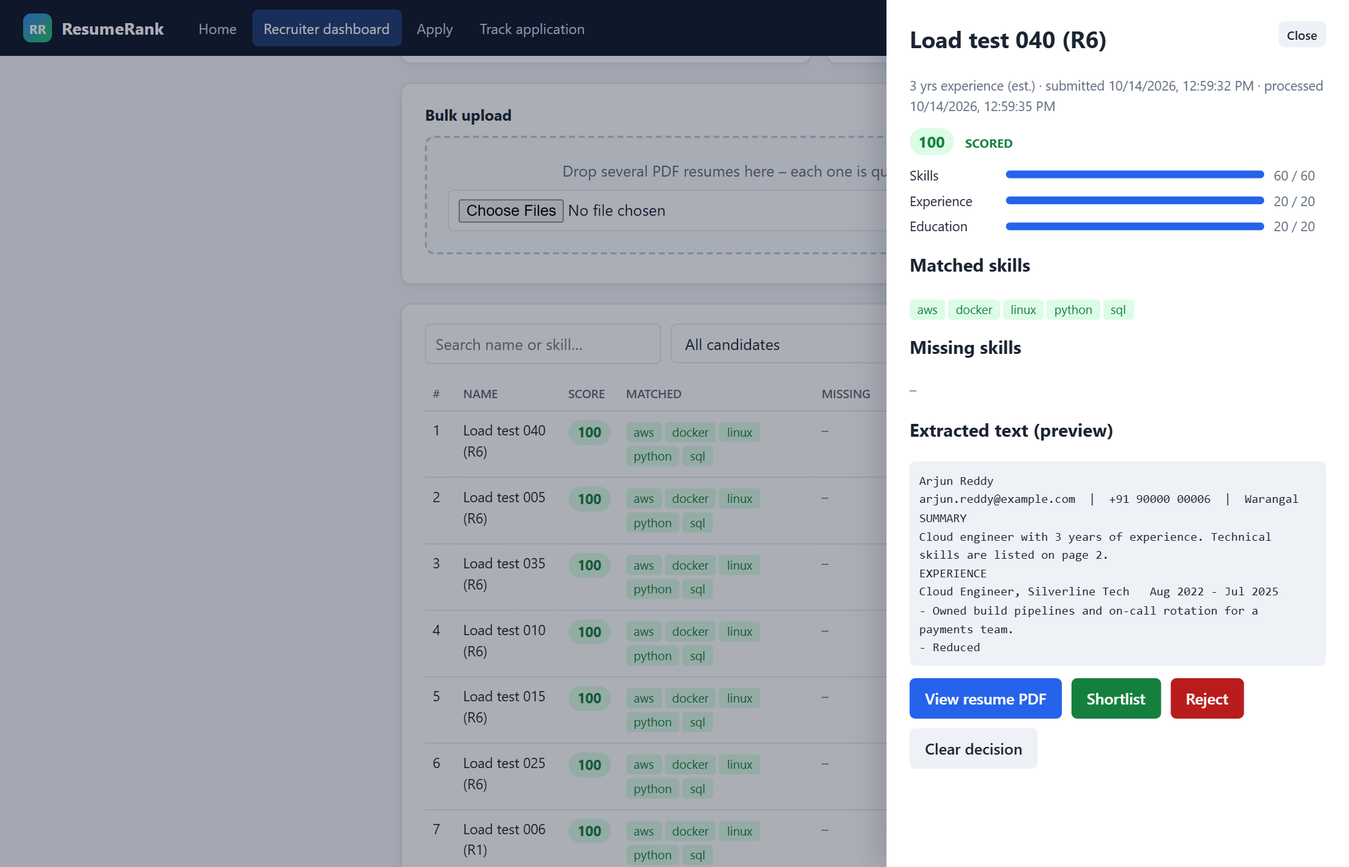
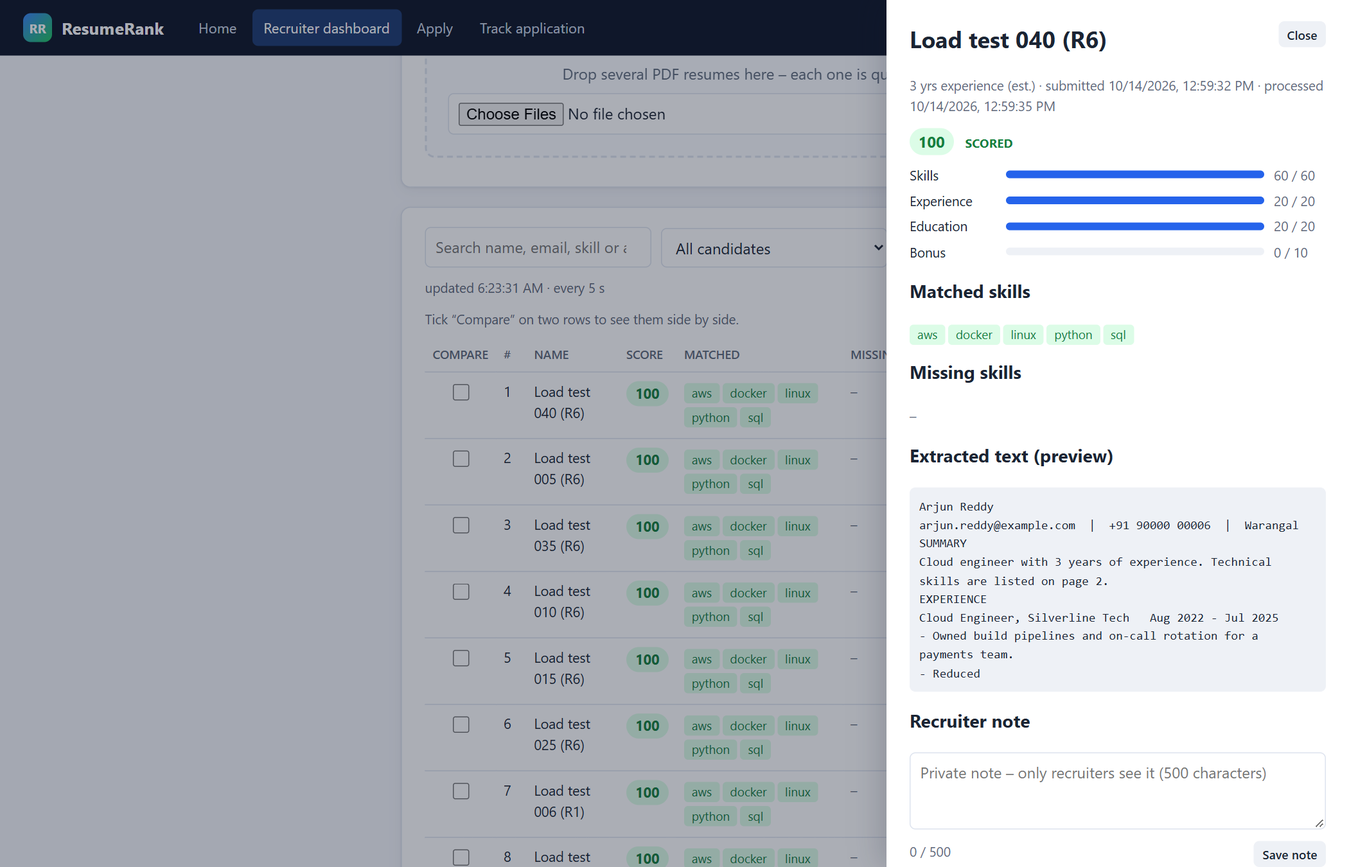
update readme, test matrix and report for new features

diff --git a/README.md b/README.md
@@ -5,8 +5,8 @@ upload PDF resumes, and every resume is read, scored 0–100 against the job's r
 on a live dashboard within seconds. Uploads are buffered in **SQS** and processed by an auto-scaling
 **Lambda** that extracts the text (**Amazon Textract** OCR where the account allows it, otherwise the
 PDF text layer), analyses it (**Amazon Comprehend** where available), stores the result in
-**DynamoDB** and emails the recruiter through **SNS** when the score is 75 or more. Everything runs
-inside the AWS Free Tier with no server to manage.
+**DynamoDB** and emails the recruiter through **SNS** when the score reaches the job's alert threshold
+(75 by default). Everything runs inside the AWS Free Tier with no server to manage.
 
 > Course project. The score orders resumes for human review; it does not measure ability and
 > must never be used to reject a candidate automatically. All test resumes are fictional.
@@ -15,14 +15,18 @@ inside the AWS Free Tier with no server to manage.
 
 | For | Feature |
 | --- | --- |
-| Everyone | **Home page** with live counts, open positions, how-it-works and architecture |
-| Candidates | **Apply** to any open job (job list + drag-and-drop PDF upload through a 5-minute pre-signed URL) |
-| Candidates | **Track application** page: live status, score ring, breakdown, matched / missing skills and advice |
-| Recruiters | **Access-key protected dashboard**: all jobs, stat cards, score-distribution and skill-gap charts |
-| Recruiters | **Job-description skill extraction** (153-skill dictionary with aliases) when posting a job |
-| Recruiters | Ranked, auto-refreshing **leaderboard** with search, status filters and **CSV export** |
-| Recruiters | **Candidate drawer**: score breakdown, OCR preview, **view the resume PDF** (pre-signed GET), **shortlist / reject** |
-| Recruiters | **Bulk upload** of many PDFs at once – each is queued and scored in parallel |
+| Everyone | **Home page** with live counts, open positions, how-it-works and architecture; **dark mode** on every page |
+| Candidates | **Apply** to any open job (job list + drag-and-drop PDF upload through a 5-minute pre-signed URL); phone-friendly layout |
+| Candidates | **Track application**: live status, score ring, weighted breakdown, bonus, matched / missing skills and advice |
+| Candidates | **Re-upload a text-based PDF** when an application FAILED – same reference, rescored automatically |
+| Recruiters | **Access-key protected dashboard** opening on **all-jobs insights** (top 10 skill gaps across every job) |
+| Recruiters | **Post a job**: skill extraction from the description, **preferred skills** (+2 each, max +10), **score weights** (must total 100), **deadline**, **per-job alert threshold** |
+| Recruiters | **Close / reopen** a job; closed or expired jobs disappear from the public site and refuse uploads |
+| Recruiters | Ranked, auto-refreshing **leaderboard**: stat cards, score-distribution and skill-gap charts, **full-text search** over the resumes, filters, **CSV export** |
+| Recruiters | **Blind screening** ("hide names until shortlisted") and **compare two candidates** side by side |
+| Recruiters | **Candidate drawer**: weighted breakdown, extracted text, **view the resume PDF**, **shortlist / reject**, private **notes** |
+| Recruiters | **Email shortlist** to the alert subscribers; **QR code** of the apply link; **bulk upload** of many PDFs |
+| Recruiters | **Duplicate applications**: the same email applying again replaces the earlier application (SUPERSEDED) |
 | Operations | **SQS buffer + dead-letter queue**, Lambda concurrency cap, API Gateway throttling, CloudWatch dashboard, load-test script |
 
 ## Architecture
@@ -39,10 +43,10 @@ Browser ── S3 static website (index, recruiter, upload, status)
                                                      └─> Lambda process_resume  (scales out, max 5 concurrent)
                                                            ├─ Textract OCR  · or PDF text layer (pypdf) on the Free plan
                                                            ├─ Comprehend key phrases / entities (when available)
-                                                           ├─ scoring.py  skills 60 · experience 20 · education 20
-                                                           ├─ DynamoDB UpdateItem → SCORED | FAILED
+                                                           ├─ scoring.py  per-job weights (default 60/20/20) + preferred-skill bonus
+                                                           ├─ DynamoDB UpdateItem → SCORED | FAILED (never over SUPERSEDED)
                                                            ├─ CloudWatch metric ResumeRank/CandidateScore
-                                                           └─ SNS email when score ≥ 75
+                                                           └─ SNS email when score ≥ the job's alert threshold
 ```
 
 The contract between the components (S3 key format, table schemas, API routes, CORS) is in
@@ -60,17 +64,35 @@ The contract between the components (S3 key format, table schemas, API routes, C
 | **Fault tolerance** | Only transient failures are retried (partial batch responses); after 3 receives a message moves to the dead-letter queue instead of being lost or looping. |
 | **Evidence** | `python scripts/load_test.py 40 20` fires 40 uploads 20 at a time; the CloudWatch dashboard shows concurrent executions rising, queue depth spiking and draining, and API 4xx (throttled) counts. |
 
+## API
+
+| Route | Access | Purpose |
+| --- | --- | --- |
+| `GET /jobs` | public / recruiter | open jobs (recruiter key: every job), or one job with `?jobId=` |
+| `POST /upload-url` | public | PENDING candidate + pre-signed PUT; supersedes the same email's earlier application |
+| `POST /reupload-url` | public | new pre-signed PUT to the same key for a FAILED candidate |
+| `GET /status` | public | a candidate's own result |
+| `POST /skills/extract` | public | skills found in a job description |
+| `POST /jobs` | recruiter | create a job (deadline, alert threshold, preferred skills, weights) |
+| `POST /jobs/status` | recruiter | close or reopen a job |
+| `GET /candidates` | recruiter | ranked leaderboard with full text |
+| `POST /decision` | recruiter | shortlist / reject / clear, optional note |
+| `POST /shortlist/send` | recruiter | email the shortlist through SNS |
+| `GET /resume-url` | recruiter | 5-minute pre-signed GET to view a PDF |
+
+Request and response examples are in [INTERFACES.md](INTERFACES.md) §3.
+
 ## Repository layout
 
 | Path | Contents |
 | --- | --- |
-| `lambda/process_resume/` | SQS/S3-triggered processor: `lambda_function.py`, `scoring.py`, `skills.json` (153 skills with aliases), `requirements.txt` (pypdf, bundled into the zip) |
-| `lambda/api_handler/` | HTTP API handler for the eight routes (the package script also bundles `scoring.py` + `skills.json` for skill extraction) |
-| `frontend/` | `index.html`, `recruiter.html`, `upload.html`, `status.html`, `app.js`, `styles.css`, `config.example.js` |
+| `lambda/process_resume/` | SQS/S3-triggered processor: `lambda_function.py`, `scoring.py`, `skills.json` (184 skills with aliases), `requirements.txt` (pypdf, bundled into the zip) |
+| `lambda/api_handler/` | HTTP API handler for the eleven routes (the package script also bundles `scoring.py` + `skills.json` for skill extraction) |
+| `frontend/` | `index.html`, `recruiter.html`, `upload.html`, `status.html`, `app.js`, `styles.css`, `qrcode.js` (MIT, inlined), `config.example.js` |
 | `iam/` | trust policy, least-privilege inline policies for both roles, SQS queue access policy |
-| `tests/` | unit tests, six test resumes, Lambda console test events, curl smoke test, Postman collection |
-| `scripts/` | `package_lambda.py`, `make_test_resumes.py`, `load_test.py` |
-| `docs/` | blueprint, `test_matrix.md`, `cloudwatch-dashboard.json` |
+| `tests/` | 94 unit tests, eight realistic test resumes (R1–R8, PDF + text), Lambda console test events, curl smoke test, Postman collection |
+| `scripts/` | `package_lambda.py`, `make_test_resumes.py`, `load_test.py`, `draw_architecture.py`, `build_report.py` |
+| `docs/` | blueprint, `test_matrix.md`, `cloudwatch-dashboard.json`, architecture diagram, report sources |
 
 ## Local development
 
@@ -81,7 +103,7 @@ pip install -r requirements-dev.txt
 
 python -m unittest discover -s tests -v    # scoring + both handlers, AWS faked
 python -m pyflakes lambda scripts tests
-python scripts/make_test_resumes.py        # regenerate tests/resumes/R1..R6
+python scripts/make_test_resumes.py        # regenerate tests/resumes/R1..R8 (reportlab)
 python scripts/package_lambda.py           # dist/process_resume.zip, dist/api_handler.zip
 ```
 
@@ -105,39 +127,46 @@ recruiter key, used by the smoke and load tests) and `frontend/config.example.js
    `<SUFFIX>`).
 7. **Lambda `process_resume`** – Python 3.12, 256 MB, 120 s, role `role-processor`; upload
    `dist/process_resume.zip`; environment `JOBS_TABLE`, `CANDIDATES_TABLE`, `SNS_TOPIC_ARN`,
-   `SCORE_THRESHOLD=75`; SQS trigger on `resumerank-queue` with batch size 1, maximum
+   `SCORE_THRESHOLD=75` (default when a job has no `alertThreshold`); SQS trigger on `resumerank-queue` with batch size 1, maximum
    concurrency 5 and *report batch item failures*.
 8. **S3 → SQS** – resumes bucket → Event notifications: `PUT`, prefix `resumes/`, suffix `.pdf`,
    destination `resumerank-queue`.
 9. **Lambda `api_handler`** – Python 3.12, 256 MB, 10 s, role `role-api`; upload
    `dist/api_handler.zip`; environment `JOBS_TABLE`, `CANDIDATES_TABLE`, `SCORE_INDEX`,
-   `RESUMES_BUCKET`, `RECRUITER_KEY` (a long random string, kept out of Git).
-10. **API Gateway** – HTTP API `resumerank-api` with the eight routes of INTERFACES.md §3, all
+   `RESUMES_BUCKET`, `RECRUITER_KEY` (a long random string, kept out of Git) and `SNS_TOPIC_ARN`
+   (for emailing the shortlist). `role-api` needs `dynamodb:UpdateItem` on Jobs (close / reopen)
+   and `sns:Publish` on the topic – both are in `iam/role-api-policy.json`.
+10. **API Gateway** – HTTP API `resumerank-api` with the eleven routes above, all
     integrated with `api_handler`; stage `$default` with auto-deploy and throttling rate 20 /
     burst 50; CORS as in INTERFACES.md §4 (headers `content-type`, `x-recruiter-key`).
 11. **Website** – put the invoke URL in `frontend/config.js`; upload `index.html`,
-    `recruiter.html`, `upload.html`, `status.html`, `app.js`, `styles.css`, `config.js` to the
+    `recruiter.html`, `upload.html`, `status.html`, `app.js`, `styles.css`, `qrcode.js`, `config.js` to the
     site bucket; static website hosting with index document `index.html`; public read on the
     site bucket only; resumes bucket CORS allows `PUT` from the site origin.
 12. **Dashboard** – CloudWatch → Dashboards → create `ResumeRank` → Actions → View/edit source →
     paste `docs/cloudwatch-dashboard.json` (replace `<API_ID>`).
 
-Verify with `bash tests/api/smoke_test.sh`, the six resumes in
+Verify with `bash tests/api/smoke_test.sh`, the eight resumes in
 [docs/test_matrix.md](docs/test_matrix.md), then `python scripts/load_test.py`.
 
 ## Scoring
 
 ```
-skill_score = matched / required × 60
-exp_score   = min(years / max(min_years, 1), 1) × 20     (min_years = 0: 20 if any work/project dates)
-edu_score   = 20 if b.tech / b.e. / bachelor / m.tech / mca / bsc / msc / phd found, else 10
-score       = round(skill_score + exp_score + edu_score)
+skill      = matched_required / required × W_skills                       (default 60)
+experience = min(years / max(min_years, 1), 1) × W_experience             (default 20)
+             min_years = 0: full marks if the resume shows dated work, projects or activities
+education  = W_education if b.tech / b.e. / bachelor / m.tech / mca / bsc / msc / phd, else half  (default 20)
+bonus      = 2 per preferred skill found, at most 10
+score      = min(100, round(skill + experience + education + bonus))
 ```
 
-Skills are matched in two passes (aliases over the extracted text, then over Comprehend key
-phrases). Experience is the larger of explicit "N years" mentions and summed date ranges outside
-the education section (Comprehend DATE entities + text), merged for overlaps and capped at 15.
-Component scores are stored with every candidate so each number can be explained.
+With default weights and no preferred skills this is exactly the blueprint formula. Skills are
+matched in two passes (aliases over the extracted text, then over Comprehend key phrases), including
+skills inside brackets such as "AWS (Lambda, API Gateway)". Experience is the larger of explicit
+"N years" mentions and summed date ranges, counted **only in work sections** and unlabelled text:
+education dates never count, and project, hackathon and club-role dates are not work years. Ranges
+are merged for overlaps and capped at 15. Every component, the weights used and the bonus are stored
+with each candidate so each number can be explained.
 
 ## Limitations
 
@@ -150,7 +179,10 @@ Component scores are stored with every candidate so each number can be explained
   the processor then skips it and matches skills on the extracted text alone.
 - English PDF resumes only; unusual layouts or poor scans can OCR imperfectly – the text preview
   in the candidate drawer shows what was read.
-- SNS emails every confirmed subscriber of the topic, not just the job's `recruiterEmail`.
+- SNS emails every confirmed subscriber of the topic, not just the job's `recruiterEmail` – for score
+  alerts and for the emailed shortlist.
+- Duplicate applications are matched on the email typed into the form; a candidate using a
+  different email is treated as a new applicant.
 - The score is a transparent heuristic, not a model of candidate quality, and can encode bias
   (for example against career gaps).
 

diff --git a/docs/report/sections/05-interface.md b/docs/report/sections/05-interface.md
@@ -1,15 +1,17 @@
 # 5. User Interface and Features
 
 The interface is four static pages (HTML, CSS and vanilla JavaScript, no framework or build step)
-served from the S3 website bucket. Charts use Chart.js from a CDN. All pages share one stylesheet,
-one helper script and a navigation bar.
+served from the S3 website bucket. Charts use Chart.js from a CDN; the QR-code library is a small
+MIT-licensed file served with the site, so it works without any external dependency. All pages share
+one stylesheet, one helper script and a navigation bar with a **light / dark theme switch**, and the
+candidate pages switch to a single-column, large-touch-target layout below 600 px.
 
 | Page | For | Features |
 | --- | --- | --- |
 | **Home** (`index.html`) | everyone | live counts of jobs and processed resumes, open positions with *Apply* buttons, how-it-works steps, architecture and scaling overview |
-| **Apply** (`upload.html`) | candidates | choose a position (or arrive through a shared link), job details and required skills, drag-and-drop PDF upload, validation (PDF, ≤ 5 MB), a tracking link after upload |
-| **Track application** (`status.html`) | candidates | status that refreshes automatically while processing, a score ring, component breakdown, skills found and not found, and advice on making missing skills explicit; failure reasons in plain language |
-| **Recruiter dashboard** (`recruiter.html`) | recruiters | access-key sign-in; list of all jobs; posting a job with **automatic skill extraction** from the description; stat cards; **score-distribution** and **skill-gap** charts; a ranked leaderboard refreshing every 5 s with search, status filters and **CSV export**; **bulk upload** of many PDFs; a candidate panel with score breakdown, extracted text, **View resume PDF** and **Shortlist / Reject** |
+| **Apply** (`upload.html`) | candidates | choose an open position (or arrive through a shared link or QR code), job details, deadline and required skills, drag-and-drop PDF upload, validation (PDF, ≤ 5 MB), a tracking link after upload; a closed or expired job explains why it cannot be applied to |
+| **Track application** (`status.html`) | candidates | status that refreshes automatically while processing, a score ring, the breakdown using the job's own weights plus any preferred-skill bonus, skills found and not found, and advice; failure reasons in plain language with a **Re-upload a text-based PDF** button; a clear message when a newer application replaced this one |
+| **Recruiter dashboard** (`recruiter.html`) | recruiters | access-key sign-in; **all-jobs insights** landing view; job list with closed jobs greyed; posting a job with **automatic skill extraction**, **preferred skills**, **score weights**, **deadline** and **alert threshold**; close / reopen; stat cards; **score-distribution** and **skill-gap** charts; a ranked leaderboard refreshing every 5 s with **full-text search**, filters and **CSV export**; **blind screening** and **compare two candidates**; **bulk upload**; **email shortlist**; a **QR code** of the apply link; a candidate panel with weighted breakdown, extracted text, **View resume PDF**, **Shortlist / Reject** and a private **note** |
 
 [[figure: screenshots/home.png | Figure 2 – Home page with live statistics and open positions]]
 
@@ -25,21 +27,47 @@ one helper script and a navigation bar.
 
 [[figure: screenshots/recruiter-dashboard.png | Figure 8 – Recruiter dashboard: job list, stat cards, score distribution and skill-gap charts]]
 
-[[figure: screenshots/leaderboard.png | Figure 9 – Ranked leaderboard filtered to scores of 75+ and searched by skill, with bulk upload and CSV export]]
+[[figure: screenshots/leaderboard.png | Figure 9 – Ranked leaderboard filtered to scores above the alert threshold and searched for a word inside the resumes ("northwind")]]
 
-[[figure: screenshots/candidate-drawer.png | Figure 10 – Candidate panel with breakdown, extracted text, resume viewer and decision buttons]]
+[[figure: screenshots/candidate-drawer.png | Figure 10 – Candidate panel with weighted breakdown and bonus, extracted text, resume viewer, decision buttons and private note]]
 
-## 5.1 API used by the pages
+## 5.1 Recruiter workflow features
+
+| Feature | What it does | Why it matters |
+| --- | --- | --- |
+| All-jobs insights | Landing view that adds up the missing skills of every scored candidate across all jobs and charts the top 10 | Shows which skills to train or advertise for, beyond a single job |
+| Blind screening | "Hide names until shortlisted" replaces names and emails with *Candidate #rank* in the table, panel, compare view and CSV; search skips hidden names | Reduces name-based bias in the first pass; reveals identity only after a positive decision |
+| Compare | Tick two rows to see score, components, years, matched and missing skills side by side, the better value highlighted | Faster, fairer choice between close candidates |
+| Job settings | Deadline, alert threshold (50–100), preferred skills (+2 each, max +10), score weights (total 100) | Different roles value experience and education differently |
+| Close / reopen | One click; the job disappears from the public site and the API refuses new uploads | Ends a hiring round without deleting data |
+| Duplicates | The same email applying again replaces the earlier application, which stays visible under a filter | The leaderboard counts each person once |
+| Notes and shortlist email | Private 500-character note per candidate; one click emails the ranked shortlist with notes to the alert subscribers | Hands the result to the hiring panel |
+| Re-upload | A FAILED candidate (for example a scanned PDF) uploads a text-based PDF to the same reference and is rescored | Recovers applicants instead of losing them |
+
+[[figure: screenshots/insights.png | Figure 11 – All-jobs insights: top skill gaps across every job]]
+
+[[figure: screenshots/job-form.png | Figure 12 – Posting a job with preferred skills, score weights, deadline and alert threshold]]
+
+[[figure: screenshots/compare.png | Figure 13 – Comparing two candidates, with blind screening switched on]]
+
+[[figure: screenshots/qr-dark.png | Figure 14 – Job header in dark mode: status, close / email-shortlist buttons and the QR code of the apply link]]
+
+[[figure: screenshots/phone-status.png | Figure 15 – Track-application page on a phone: weighted breakdown and bonus]]
+
+## 5.2 API used by the pages
 
 | Route | Access | Used by |
 | --- | --- | --- |
-| `GET /jobs` | public | home page, apply page, dashboard job list |
+| `GET /jobs` | public / recruiter | home page and apply page (open jobs), dashboard job list (all jobs) |
 | `POST /upload-url` | public | apply page, bulk upload |
+| `POST /reupload-url` | public | status page re-upload |
 | `GET /status` | public | status page |
 | `POST /skills/extract` | public | new-job form |
 | `POST /jobs` | recruiter | new-job form |
-| `GET /candidates` | recruiter | leaderboard, charts, CSV |
-| `POST /decision` | recruiter | shortlist / reject |
+| `POST /jobs/status` | recruiter | close / reopen |
+| `GET /candidates` | recruiter | leaderboard, charts, insights, compare, CSV, search |
+| `POST /decision` | recruiter | shortlist / reject, notes |
+| `POST /shortlist/send` | recruiter | email shortlist |
 | `GET /resume-url` | recruiter | resume viewer |
 
 Values received from the API are always inserted as text, never as HTML, so user-supplied names

diff --git a/docs/report/sections/13-limitations.md b/docs/report/sections/13-limitations.md
@@ -5,13 +5,20 @@
 - **Scanned resumes on the Free plan.** Without Textract, image-only PDFs cannot be read; they are
   marked FAILED with a clear reason. On an account with Textract access they are OCR'd normally.
 - **Heuristic scoring.** The score measures stated fit to a job description, not ability. Skills
-  described in unusual words, or missing from the 153-skill dictionary, can be missed.
-- **Experience estimation** relies on explicit statements and date ranges; resumes that give
-  neither are scored as having no experience.
+  described in unusual words, or missing from the 184-skill dictionary, can be missed.
+- **Experience estimation** relies on explicit statements and date ranges in work sections;
+  resumes that give neither are scored as having no experience. Work listed under an unusual heading
+  is counted only if the heading is recognised.
 - **Shared recruiter key.** One secret protects all recruiter functions; there are no individual
   accounts or per-recruiter job ownership.
-- **SNS fan-out.** Alerts go to every confirmed subscriber of the topic, not only to the recruiter
-  who posted the job.
+- **SNS fan-out.** Alerts and emailed shortlists go to every confirmed subscriber of the topic, not
+  only to the recruiter who posted the job.
+- **Duplicate detection by email.** A candidate who applies again with a different email address
+  is treated as a new applicant. The check reads the job's candidates with a filter, which is fine
+  at tens to hundreds per job; a dedicated index would be needed at larger scale.
+- **Recruiter-set weights.** Per-job weights and preferred skills make the score more flexible but
+  also easier to tune in a biased direction; the weights used are stored and shown with every score
+  so they remain visible.
 - **English PDF resumes only**, maximum 5 MB.
 - **Prototype scale controls.** Processor concurrency is deliberately capped at 5 to stay within
   free limits; production would raise it.
@@ -25,6 +32,9 @@ review, never to decide**:
 - the interface states on every page that the score is not a hiring decision;
 - the score is fully explained (three components, matched and missing skills, extracted text);
 - only a recruiter can shortlist or reject, and nothing is rejected automatically;
+- **blind screening** hides names and emails until a candidate is shortlisted, so the first pass
+  is made on skills and experience alone;
+- a candidate whose resume could not be read can **re-upload** it instead of silently dropping out;
 - candidates can see their own result and which required skills were not recognised, with advice on
   making them explicit – making the process more transparent for applicants than manual screening;
 - test resumes are fictional; real resumes are deleted after 7 days.
@@ -38,8 +48,9 @@ candidates request a manual review.
 | --- | --- |
 | Identity | Amazon Cognito sign-in for recruiters and candidates; per-recruiter jobs |
 | Orchestration | AWS Step Functions for the pipeline stages, with per-stage retries |
-| Scoring | Semantic matching with embeddings or a Bedrock model, alongside the transparent rule; skill weights per job |
-| Notifications | Per-job email routing with SNS filter policies or Amazon SES; candidate notifications |
+| Scoring | Semantic matching with embeddings or a Bedrock model, alongside the transparent rule; learned skill similarity instead of a fixed alias list |
+| Notifications | Per-job email routing with SNS filter policies or Amazon SES; candidate notifications when shortlisted or closed |
 | Security | AWS WAF on the API, customer-managed KMS keys, audit log of recruiter decisions |
+| Data | A `(jobId, email)` index for duplicate detection at scale; audit trail of re-uploads and decisions |
 | Operations | Infrastructure as code (AWS SAM or CDK) and a CI/CD pipeline running the unit tests on every push |
 | OCR | Textract on a paid account, or an open-source OCR container image on Lambda as an alternative |

diff --git a/docs/report/sections/10-implementation.md b/docs/report/sections/10-implementation.md
@@ -4,25 +4,33 @@
 
 | Path | Contents |
 | --- | --- |
-| `lambda/process_resume/` | queue consumer, text extraction with fallbacks, Comprehend chunking, `scoring.py`, `skills.json` (153 skills) |
-| `lambda/api_handler/` | the eight API routes, validation, pre-signing, recruiter-key check |
-| `frontend/` | four pages, shared `app.js` and `styles.css`, `config.example.js` |
+| `lambda/process_resume/` | queue consumer, text extraction with fallbacks, Comprehend chunking, `scoring.py` (section-aware experience, weights, bonus), `skills.json` (184 skills) |
+| `lambda/api_handler/` | the eleven API routes, validation, pre-signing, recruiter-key check, deadlines, duplicate detection, shortlist email |
+| `frontend/` | four pages, shared `app.js` (navigation, dark mode, API helper) and `styles.css`, inlined `qrcode.js`, `config.example.js` |
 | `iam/` | trust policy, both role policies, SQS queue policy |
-| `tests/` | 49 unit tests, six test resumes, Lambda console test events, curl smoke test, Postman collection |
+| `tests/` | 94 unit tests, eight realistic test resumes, Lambda console test events, curl smoke test, Postman collection |
 | `scripts/` | Lambda packaging, test-resume generator, load test, architecture-diagram generator, report builder |
 | `docs/` | blueprint, test matrix, dashboard definition, architecture diagram, this report |
 | `INTERFACES.md` | the contract between the two halves of the system |
 
 ## 10.2 Engineering practices
 
-- **Local testing without AWS.** Every AWS client is replaced by an in-memory fake, so the 49 unit
-  tests (scoring, both handlers, the SQS path, the fallbacks, every API route and its validation)
+- **Local testing without AWS.** Every AWS client is replaced by an in-memory fake, so the 94 unit
+  tests (scoring, both handlers, the SQS path, the fallbacks, every API route and its validation,
+  superseding, deadlines, notes, re-upload, weights and bonus)
   run in under a second with no account and no cost.
 - **End-to-end checks against the deployed system.** A curl smoke test exercises the real API
   (job, pre-signed upload, scoring, negative cases, CORS, recruiter key); the load test exercises
   scaling.
-- **Reproducible test data.** The six test resumes are generated by a script from fictional
-  profiles, including a scanned image-only PDF.
+- **Reproducible test data.** The eight test resumes are generated by a script (reportlab) from
+  fictional profiles that follow the structure of real student and early-career CVs – header,
+  education with CGPA, grouped technical skills, experience, projects with measurable outcomes,
+  achievements and certifications – including a two-page resume and a scanned image-only PDF. A
+  test checks that every PDF's text layer scores exactly like its source text.
+- **Browser checks.** Each frontend change was exercised in Chrome against the live API (blind
+  screening, compare, insights, QR decoding, phone layout, dark mode) before deployment.
+- **Contract first.** Each feature tier started by updating `INTERFACES.md` – new attributes, routes
+  and examples – before the code, so the API and the pages never disagreed.
 - **Configuration outside code.** Resource names, the API URL and the recruiter key come from Lambda
   environment variables or gitignored files.
 - **Version control.** One shared GitHub repository; each member commits their own work under

diff --git a/docs/test_matrix.md b/docs/test_matrix.md
@@ -48,6 +48,32 @@ Notes:
 - R8 scores 78 – above the 75 alert threshold with one skill missing and one year of experience
   against a two-year minimum.
 
+## Feature checks on the deployed system (15 Oct 2026)
+
+Run against the live API and site with scripted checks (browser automation for the pages, HTTP for
+the routes). Test jobs: "Tier 2 check" and "Tier 3 check".
+
+| Area | Check | Result |
+| --- | --- | --- |
+| Blind screening | names and emails masked as "Candidate #rank" in table, drawer and CSV; search ignores hidden names; setting kept per tab | ✅ |
+| Compare | panel appears after two picks, third pick refused, better value highlighted | ✅ |
+| Insights | recruiter landing view aggregates 7 jobs / 45 scored candidates; top gaps aws, docker, linux (17 each) | ✅ |
+| QR code | drawn on canvas from the inlined library; decoded back to the exact apply link | ✅ |
+| Phones / dark mode | 390 px: no sideways scroll, 50 px buttons, one column; dark theme kept across reloads | ✅ |
+| Job status | job closed → upload refused ("applications for this job are closed"), hidden from public list, still in recruiter list, shared link explains it | ✅ |
+| Deadline | job created with tomorrow's deadline; past deadline refused (unit test) | ✅ |
+| Duplicates | same email (different case) applied twice → first SUPERSEDED and unranked, second scored and ranked #1 | ✅ |
+| Notes | note saved with a shortlist decision and returned on the leaderboard | ✅ |
+| Email shortlist | `POST /shortlist/send` published 1 shortlisted candidate to SNS; email received | ✅ |
+| Alert threshold | threshold 95: R8 (78) sent no alert, R1 (100) did | ✅ |
+| Re-upload | scanned R3 FAILED → re-upload URL for the same key → second click 409 → R1 uploaded → SCORED under the same reference | ✅ |
+| Weights and bonus | weights 40/40/20 → components 40/40/20; preferred Terraform +2; total capped at 100 | ✅ |
+| Full text | 2,130 characters stored and returned for search | ✅ |
+| Unit tests | `python -m unittest discover -s tests` | 94 / 94 pass |
+
+The CloudWatch dashboard needs no change: the new features use the existing `CandidateScore`
+metric, Lambda and API Gateway metrics.
+
 ## Extra checks (cross-verification, Day 2 Hr 4)
 
 | Check | How | Expected |
